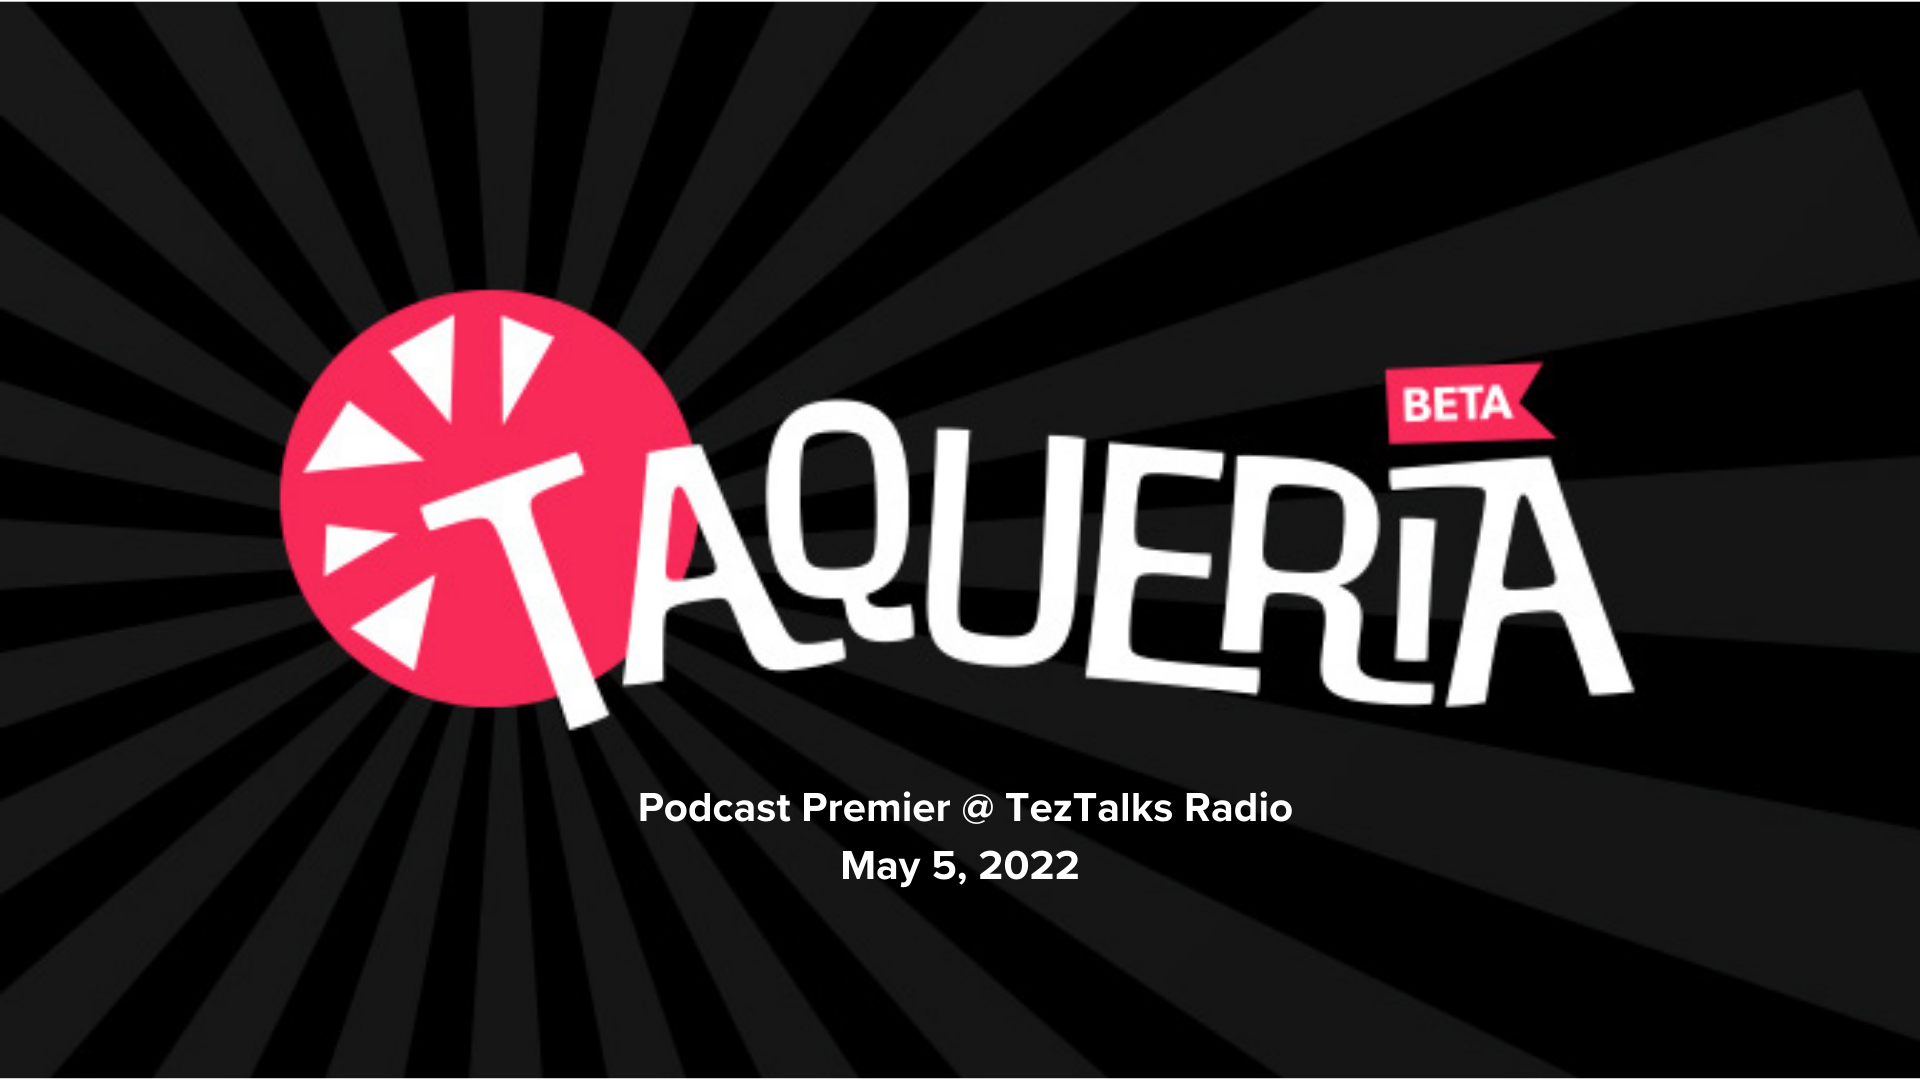
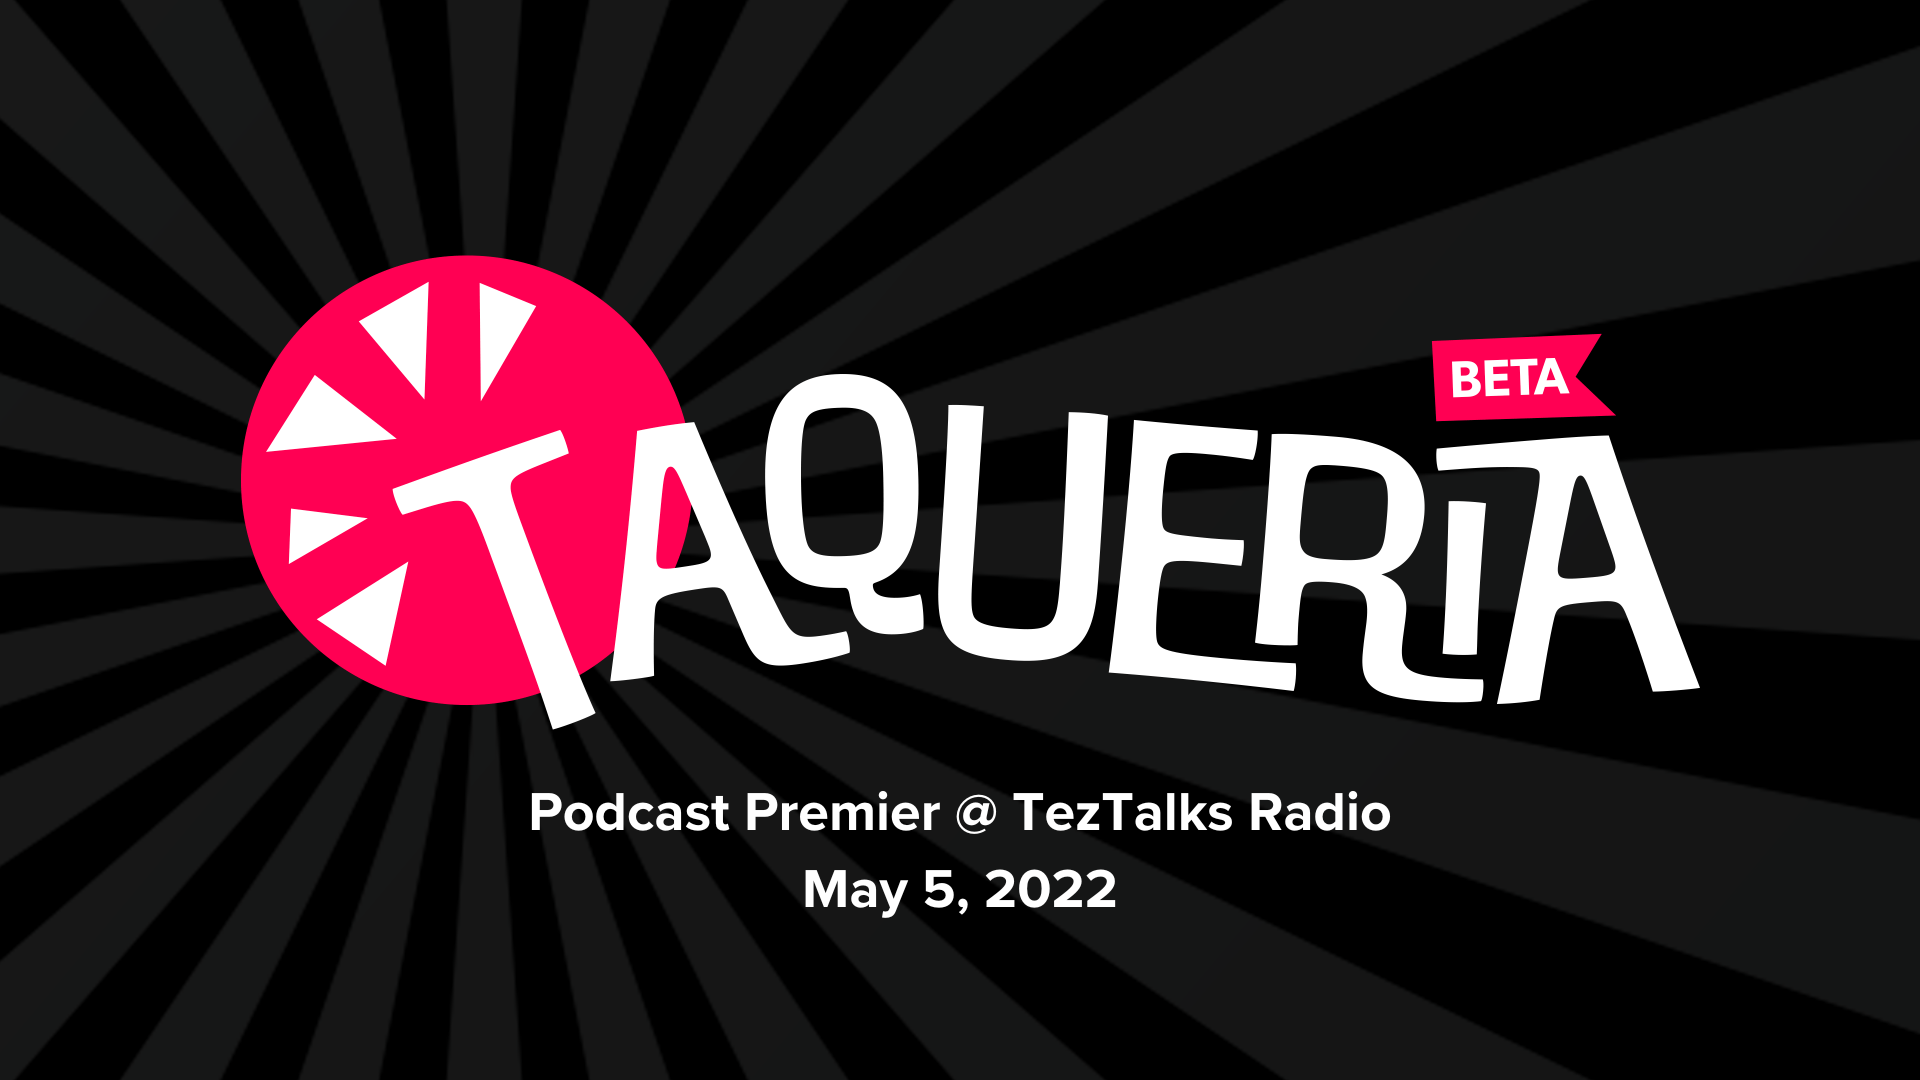
Website Content Updates (#685)
* Move plugin basics to plugin section

* Update intro.md

* Update intro.md

* Update sidebars.js

* Add note for skipping content

* Update install docs

* Add success test

* Update tezTalksBanner.png

* Minor fixes

* Fix link

* Add tag to MC signup form

* Update MC form

* Fix typos

* Fix vs_code_readme

* Add nft link back in

* Update plugin-basics.md

* Update form to use tags

Changed region(s): [[0.125, 0.2139, 0.9062, 0.6722], [0.25, 0.7333, 0.7188, 0.8556]]

diff --git a/website/src/components/FooterForm/FooterForm.js b/website/src/components/FooterForm/FooterForm.js
@@ -4,63 +4,64 @@ import { useMailChimp } from "react-use-mailchimp-signup";
 import styles from "./FooterForm.module.css";
 
 function Feature() {
-	const { error, loading, status, subscribe, message } = useMailChimp({
-		action: `https://ecadlabs.us20.list-manage.com/subscribe/post?u=8fdd00e1ab81d5f5550fadb32&amp;id=de1bfb4af9`,
-	});
+  const { error, loading, status, subscribe, message } = useMailChimp({
+    action: `https://ecadlabs.us20.list-manage.com/subscribe/post?u=8fdd00e1ab81d5f5550fadb32&amp;id=de1bfb4af9`,
+  });
 
-	const [inputs, setInputs] = useState({
-		"group[218840]": "1",
-	});
+  const [inputs, setInputs] = useState({
+    "group[218840]": "1",
+  });
 
-	const handleInputChange = (event) => {
-		event.persist();
-		setInputs((inputs) => ({
-			...inputs,
-			[event.target.name]: event.target.value,
-		}));
-	};
+  const handleInputChange = (event) => {
+    event.persist();
+    setInputs((inputs) => ({
+      ...inputs,
+      [event.target.name]: event.target.value,
+    }));
+  };
 
-	const handleSubmit = (event) => {
-		if (event) {
-			event.preventDefault();
-		}
-		if (inputs) {
-			subscribe(inputs);
-		}
-	};
+  const handleSubmit = (event) => {
+    if (event) {
+      event.preventDefault();
+    }
+    if (inputs) {
+      subscribe(inputs);
+    }
+  };
 
-	return (
-		<>
-			<div className={styles.footerForm}>
-				{error && <h6>Please enter your email</h6>}
-				{loading && <p>...Loading</p>}
-				{message && <p>{message && parse(message)}</p>}
+  return (
+    <>
+      <div className={styles.footerForm}>
+        {error && <h6>Please enter your email</h6>}
+        {loading && <p>...Loading</p>}
+        {message && <p>{message && parse(message)}</p>}
 
-				<h5>Register for updates</h5>
-				<form className={styles.footerInputContainer} onSubmit={handleSubmit}>
-					<input
-						type="email"
-						name="email"
-						id="mchimpEmail"
-						placeholder="Your email address"
-						onChange={handleInputChange}
-						className={styles.footerEmail}
-					/>
-					<button className={styles.signupButton} type="submit">
-						Sign up
-					</button>
-				</form>
-			</div>
-		</>
-	);
+        <h5>Register for updates</h5>
+        <form className={styles.footerInputContainer} onSubmit={handleSubmit}>
+          <input
+            type="email"
+            name="email"
+            id="mchimpEmail"
+            placeholder="Your email address"
+            onChange={handleInputChange}
+            className={styles.footerEmail}
+          />
+          <input type="hidden" name="tags" value="2262640" />
+          <button className={styles.signupButton} type="submit">
+            Sign up
+          </button>
+        </form>
+      </div>
+    </>
+  );
 }
 
 export default function FooterForm() {
-	return (
-		<section className={styles.features}>
-			<div className={styles.container}>
-				<Feature />
-			</div>
-		</section>
-	);
+  return (
+    <section className={styles.features}>
+      <div className={styles.container}>
+        <Feature />
+      </div>
+    </section>
+  );
 }

diff --git a/website/sidebars.js b/website/sidebars.js
@@ -23,11 +23,10 @@ const sidebars = {
       collapsed: false,
       collapsible: false,
       items: [
-        "intro",
         "getting-started/installation",
-        "getting-started/plugin-basics",
+        "intro",
         "getting-started/quickstart",
-        "getting-started/networks",
+        "getting-started/networks"
       ],
     },
     {
@@ -37,6 +36,7 @@ const sidebars = {
       collapsed: false,
       collapsible: false,
       items: [
+        "getting-started/plugin-basics",
         "plugins/plugin-flextesa",
         "plugins/plugin-archetype",
         "plugins/plugin-ligo",

diff --git a/website/docusaurus.config.js b/website/docusaurus.config.js
@@ -113,13 +113,13 @@ const config = {
             position: "right",
             className: "header-link"
           },
-          // {
-          //   type: "doc",
-          //   docId: "nft_minting",
-          //   label: "NFTs",
-          //   position: "right",
-          //   className: "header-link"
-          // },
+          {
+            type: "doc",
+            docId: "nft_minting",
+            label: "NFTs",
+            position: "right",
+            className: "header-link"
+          },
           {
             href: "https://discord.gg/bujt7syVVT",
             position: "right",

diff --git a/website/docs/intro.md b/website/docs/intro.md
@@ -17,6 +17,10 @@ purpose: help the user understand what Taqueria is, what it does, and how to pro
 - what is the MINIMAL amount of detail necessary in this document?
  -->
 
+:::note
+This is a quick introduction to the main concepts of Taqueria. If you are looking to get started with Taqueria right away with a hands on approach, you can jump to the [quickstart guide](/docs/getting-started/quickstart/) 
+:::
+
 Taqueria is here to help make developing on Tezos easier. Taqueria supercharges your projects with a powerful and centralized configuration and access to top Tezos development tools through tasks that you run from the command line
 
 Some of the things Taqueria can do for you include:
@@ -34,7 +38,7 @@ In more practical terms, Taqueria is a task runner that you can use from the com
 
 Taqueria has a few major components:
  - A command line interface (CLI) you use in your terminal through a command named `taq`
- - A library of plugins that add tasks to Taqueria to do cool and useful things like smart contract compiling, originating, and type generation
+ - A library of plugins that add tasks to Taqueria to do cool and useful things like compiling and originating smart contracts, and type generation
  - A VS Code Extension which provides the ability to run Taqueria tasks from the command palette
 
 ## Basic Components
@@ -45,24 +49,29 @@ The CLI is the main user interface for Taqueria which provides a command `taq` t
 
 Basic usage of the Taqueria CLI involves running a command following the pattern 
 ```shell
-taq [task] [options]
+taq [taskName] [options]
 ```
 
-You can see what tasks are available to run in any given context by running `taq --help` from the command line
+:::note
+Taqueria uses the following conventions for displaying command structure:
+- Square brackets `[value]` are  used to indicate optional arguments
+- Angle brackets `<value>` are used to indicate required arguments
+:::
+
+You can see what tasks are available to run in any given context by running `taq` from the command line
 
 ### Taqueria Project
 
-A Taqueria project is one that has been initialized by Taqueria using the `taq init` command. It will have the following folder structure created:
-- `app`
-- `contracts`
-- `artifacts`
-- `./.taq`
-
-The `./.taq` folder contains the Taqueria configuration for a given project. Configuration for Taqueria plugins and sandboxes is done in `./.taq/config.json`
+A Taqueria project is one that has been initialized by Taqueria using the `taq init` command. It will have the following directory structure created:
+- `/artifacts`: This is where Taqueria will store artifacts that it creates during the course of its execution
+- `/contracts`: This is where Taqueria will store smart contracts that it compiles
+- `/tests`: This is where Taqueria will store tests that it runs 
+- `./.taq`: This is where Taqueria will store its configuration
 
 :::note
-At this time, all Taqueria projects must also be initialized as node projects by running `npm init -y` from the root of your project directory
+Configuration for Taqueria plugins and sandboxes is done in `./.taq/config.json`
 :::
+
 ### Taqueria Plugins
 
 Taqueria plugins add functionality to Taqueria by adding tasks to Taqueria. Plugins are managed right in Taqueria using the `taq install [pluginName]` and `taq uninstall [pluginName]` commands
@@ -72,12 +81,16 @@ Taqueria plugins are installed on a ***per-project*** basis which allows you to 
 Currently available plugins include:
 - LIGO Compiler
 - SmartPy Compiler
+- Archetype Compiler
 - Flextesa Sandbox
 - Taquito 
 - TS Type Generator
+- Tezos Client
 
 ### Taqueria SDK
 
-Taqueria has an SDK and protocol at its core which all Taqueria plugins and the cli depend on
+Taqueria has a Node.js SDK which is used by plugins to interact with the Taqueria protocol
 
-> Note: Most developers won't ever interact with the SDK directly unless they are developing a plugin
+:::note
+Most developers won't ever interact with the SDK directly unless they are developing a plugin
+:::

diff --git a/website/docs/getting-started/plugin-basics.md b/website/docs/getting-started/plugin-basics.md
@@ -23,7 +23,8 @@ During installation, NPM packages for the plugin are downloaded into the project
 | name           |  pluginName                       |  description                                                        |
 |----------------|------------------------------     |---------------------------------------------------------------------|
 | LIGO           | `@taqueria/plugin-ligo`           | A compiler for the LIGO smart contract language                     |
-| SmartPy        | `@taqueria/plugin-smartpy`        | A compiler for the SmartPy contract language                        |
+| SmartPy        | `@taqueria/plugin-smartpy`        | A compiler for the SmartPy smart contract language                  |
+| Archetype      | `@taqueria/plugin-archetype`      | A compiler for the Archetype smart contract language                |
 | Flextesa       | `@taqueria/plugin-flextesa`       | A sandbox test network running Tezos Flextesa                       | 
 | Taquito        | `@taqueria/plugin-taquito`        | A front-end Tezos framework used to originate                       |
 | Contract Types | `@taqueria/plugin-contract-types` | A type generator that produces TS types from Michelson code         |

diff --git a/quickstart.md b/quickstart.md
@@ -198,8 +198,8 @@ Now you can originate the contract by running:
 taq originate
 ```
 
-This will originate all contracts in the `/artifacts` directory to the sandbox and return the address of the deployed contract and destination sandbox. The output for this command will display which contracts were originated, what the destination was, and what the on-chain address for the deployed address is. This will look something like this:
-```
+This will originate all contracts in the `/artifacts` directory to the sandbox and return the on-chain addresses for the originated contracts. This will look something like this:
+```shell
 ┌────────────┬──────────────────────────────────────┬─────────────┐
 │ Contract   │ Address                              │ Destination │
 ├────────────┼──────────────────────────────────────┼─────────────┤

diff --git a/website/docs/getting-started/quickstart.md b/website/docs/getting-started/quickstart.md
@@ -225,7 +225,7 @@ Now you can originate the contract by running:
 taq originate
 ```
 
-This will originate all contracts in the `/artifacts` directory to the sandbox and return the address of the deployed contract and destination sandbox. The output for this command will display which contracts were originated, what the destination was, and what the on-chain address for the deployed address is. This will look something like this:
+This will originate all contracts in the `/artifacts` directory to the sandbox and return the on-chain addresses of the originated contracts. This will look something like this:
 ```
 ┌────────────┬──────────────────────────────────────┬─────────────┐
 │ Contract   │ Address                              │ Destination │

diff --git a/glossary.md b/glossary.md
@@ -115,7 +115,7 @@
 
 ## Environment _(Phase 0)_
 - Many environments can be configured, and distinguishable by name. E.g. development, testing, production
-- A target for deployment and testing
+- A target for origination and testing
 - An environment can reference a named network or sandbox, and provide the ability to override default settings
 - Plugins can expose new environments
 - Down the road, we could have two types of environments, _static_ and _dynamic_. A static environment would refer to a single network or sandbox. It's a 1:1 relationship. A dynamic environment would refer to a list of attributes, which at runtime would match underlying networks or sandboxes. It provides a 1:many relationship, and could be used for intents like "target all networks and sandboxes that support protocol I"

diff --git a/taqueria-vscode-extension/README.md b/taqueria-vscode-extension/README.md
@@ -25,13 +25,13 @@ Run Taqueria commands right in the VS Code Command Palette:
 
 ### Quickstart
 
-A basic workflow Taqueria is:
+A basic workflow in Taqueria is:
 
 1. Initialize the project by running the `taq init` command
 2. Install necessary plugins (LIGO, SmarPy, Flextesa, Taquito, ect)
-3. Complile contracts
-4. Launch and deploy to a local sandbox
-5. Originate to a testnet
+3. Compile the source code of your smart contracts
+4. Launch a local sandbox and originate contracts to it
+5. Originate contracts to a testnet
 
 ## Available Plugins
 
